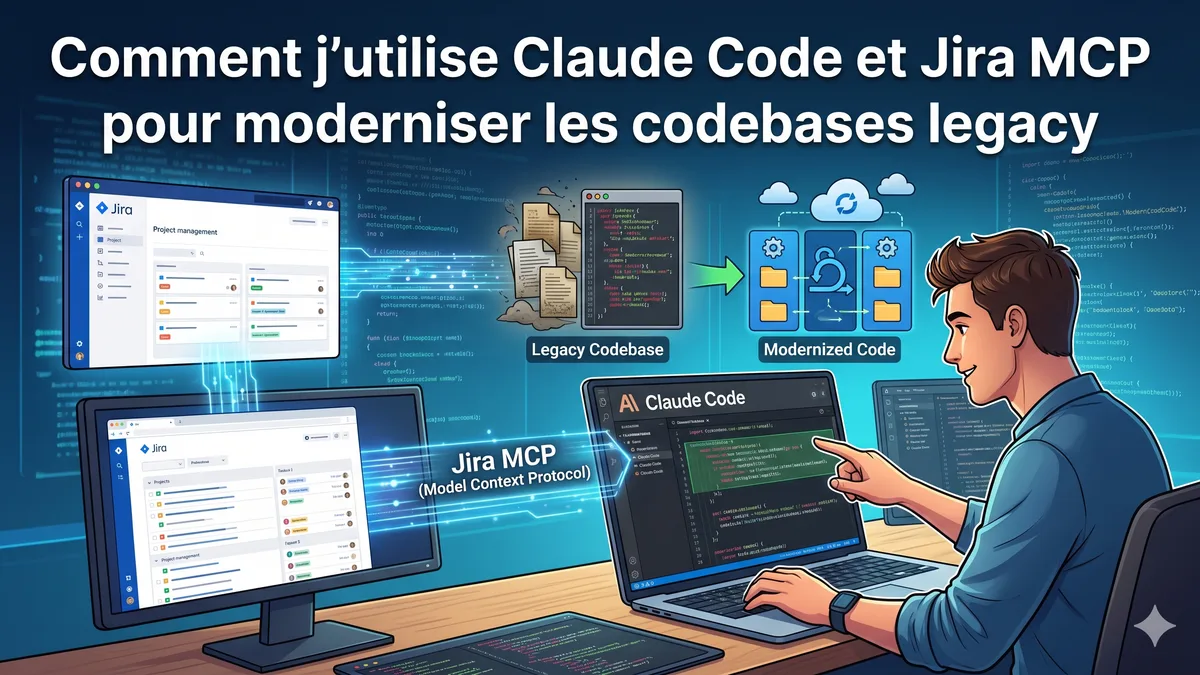
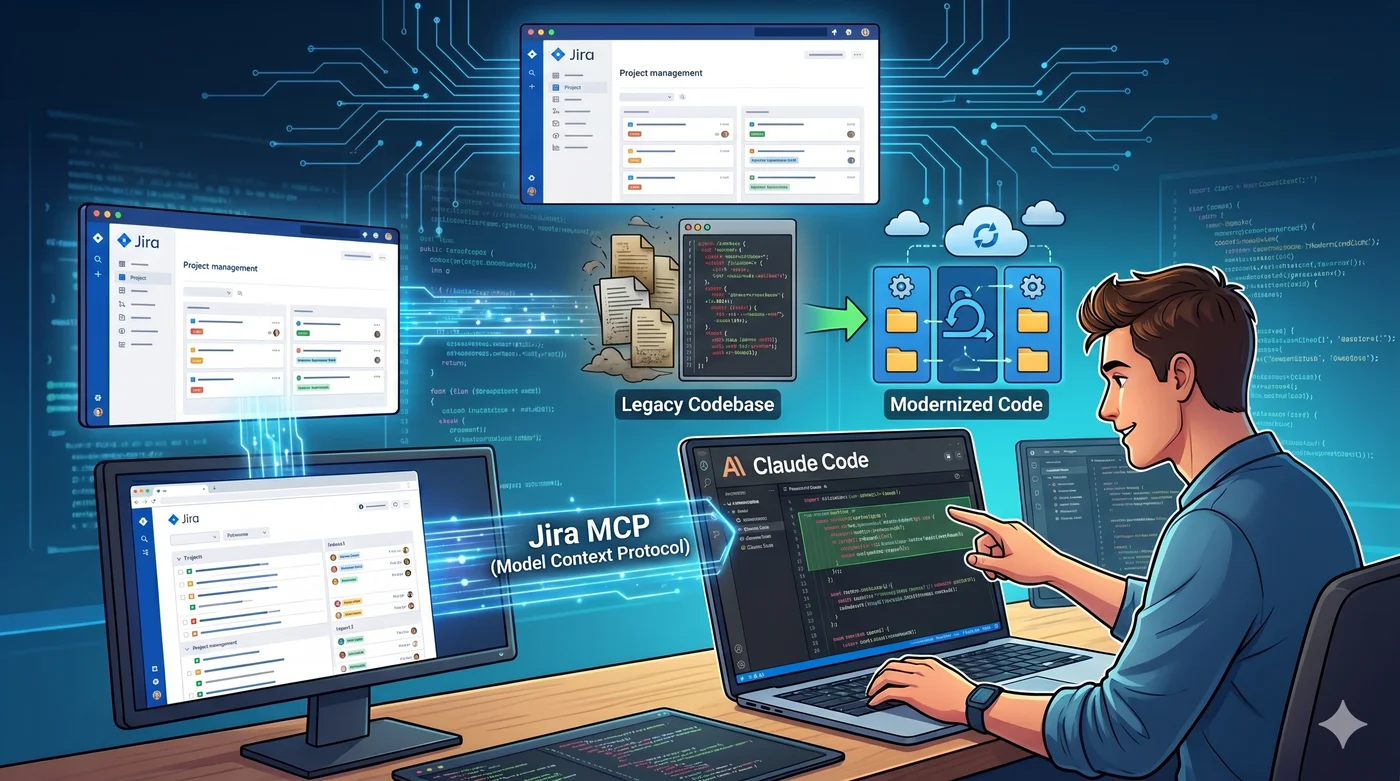
fix: publish Claude Code + Jira MCP blog post and update images
- Remove draft flag from EN and FR versions
- Add relatedPosts links to MCP CLI and spec-driven development articles
- Replace em dashes with standard dashes throughout content
- Remove trailing promotional section about Ippon Technologies
- Update claude-code-jira-mcp-legacy-code.png and .webp images

diff --git a/src/content/blog/fr-claude-code-jira-mcp-legacy-codebase.md b/src/content/blog/fr-claude-code-jira-mcp-legacy-codebase.md
@@ -1,18 +1,18 @@
 ---
 title: "Comment j'utilise Claude Code et Jira MCP pour moderniser les codebases legacy"
-description: "Un retour d'expérience concret sur mon workflow avec Claude Code, CLAUDE.md et le Jira MCP pour naviguer et implémenter des changements dans des codebases Java legacy — du ticket à la pull request."
+description: "Un retour d'expérience concret sur mon workflow avec Claude Code, CLAUDE.md et le Jira MCP pour naviguer et implémenter des changements dans des codebases Java legacy du ticket à la pull request."
 publishDate: 2026-04-28
 tags: ["IA", "Software Engineering"]
 keywords: ["Claude Code", "MCP", "Jira", "Java", "Legacy Code", "IA"]
 img: "/assets/claude-code-jira-mcp-legacy-code.webp"
 img_alt: "Session Claude Code dans le terminal naviguant une codebase legacy avec le Jira MCP"
 lang: "fr"
-draft: true
+relatedPosts: ["model-context-protocol-mcp-cli-rust-ide", "spec-driven-development"]
 ---
 
-Le code legacy, c'est le squelette de chaque entreprise qui a réussi. Il gère la facturation, traite les commandes, et contient des règles métier que personne ne comprend plus vraiment depuis des années. Il ne va nulle part — et c'est précisément pour ça que le moderniser est essentiel.
+Le code legacy, c'est le squelette de chaque entreprise qui a réussi. Il gère la facturation, traite les commandes, et contient des règles métier que personne ne comprend plus vraiment depuis des années. Il ne va nulle part et c'est précisément pour ça que le moderniser est essentiel.
 
-Depuis plusieurs mois, j'utilise **Claude Code** avec le **Jira MCP** et un `CLAUDE.md` soigneusement rédigé pour naviguer et implémenter des changements dans des codebases Java legacy. Cet article est un retour concret sur ce workflow — comment ça se passe, pourquoi ça fonctionne, et où ça échoue encore.
+Depuis plusieurs mois, j'utilise **Claude Code** avec le **Jira MCP** et un `CLAUDE.md` soigneusement rédigé pour naviguer et implémenter des changements dans des codebases Java legacy. Cet article est un retour concret sur ce workflow comment ça se passe, pourquoi ça fonctionne, et où ça échoue encore.
 
 ![Schéma du workflow : le Jira MCP et CLAUDE.md alimentent Claude Code, qui navigue la codebase legacy et produit une pull request](/assets/blog/claude-code-jira-mcp-workflow.svg)
 
@@ -34,11 +34,11 @@ Mon setup comporte trois éléments :
 
 ### 1. Claude Code
 
-[Claude Code](https://claude.ai/code) est l'outil de coding agentique d'Anthropic. Il tourne dans ton terminal, a accès à ton système de fichiers, peut exécuter des commandes, et itère de lui-même. Contrairement à une interface de chat, il ne se contente pas de suggérer du code — il lit des fichiers, fait des modifications, lance des tests, et corrige des erreurs.
+[Claude Code](https://claude.ai/code) est l'outil de coding agentique d'Anthropic. Il tourne dans ton terminal, a accès à ton système de fichiers, peut exécuter des commandes, et itère de lui-même. Contrairement à une interface de chat, il ne se contente pas de suggérer du code il lit des fichiers, fait des modifications, lance des tests, et corrige des erreurs.
 
 Ce qui le rend puissant pour le travail legacy, c'est sa capacité à naviguer une large codebase sans que je lui dicte chaque étape. Je lui donne une tâche et du contexte, il détermine quels fichiers lire.
 
-### 2. CLAUDE.md — Le manuel du projet
+### 2. CLAUDE.md Le manuel du projet
 
 Chaque projet reçoit un `CLAUDE.md` à la racine. Ce fichier, c'est le document d'onboarding de Claude Code. Il indique à l'agent ce qu'il doit savoir avant de toucher quoi que ce soit.
 
@@ -64,12 +64,12 @@ docker compose down           # arrête tous les conteneurs
 ./mvnw test -pl api                # lance les tests unitaires du module api
 
 ### Base de données
-# PostgreSQL — localhost:5432, base: appdb, user: appuser
+# PostgreSQL localhost:5432, base: appdb, user: appuser
 ./scripts/db-reset.sh              # drop + recréation + seed en local
 ./scripts/db-load-dump.sh prod     # charge un dump prod anonymisé (~5min)
 
-# Oracle (ERP legacy) — lecture seule, localhost:1521
-# Ne jamais écrire directement — utiliser le wrapper OracleService dédié
+# Oracle (ERP legacy) lecture seule, localhost:1521
+# Ne jamais écrire directement utiliser le wrapper OracleService dédié
 
 ## Architecture
 - api/          Contrôleurs REST + logique métier
@@ -79,20 +79,20 @@ docker compose down           # arrête tous les conteneurs
 - common/       DTOs, utils, constantes partagées
 
 ## Points sensibles
-- L'ERP Oracle est en lecture seule — ne jamais tenter d'écriture, ça corrompt les données en aval
-- OrderService.createOrder() n'est PAS idempotent — toujours vérifier les doublons avant
+- L'ERP Oracle est en lecture seule ne jamais tenter d'écriture, ça corrompt les données en aval
+- OrderService.createOrder() n'est PAS idempotent toujours vérifier les doublons avant
 - LegacyCodeMapper utilise la réflexion, ajouter des champs casse silencieusement sans tests
-- Ne PAS ajouter @Transactional aux jobs scheduler — ils gardent les connexions ouvertes des minutes
+- Ne PAS ajouter @Transactional aux jobs scheduler ils gardent les connexions ouvertes des minutes
 
 ## Git
 Branches : main (prod), develop (intégration), PROJ-XXXX-description-courte (feature)
-Commits : toujours préfixer avec le ticket — "PROJ-123: ajout calcul TVA commandes EU"
+Commits : toujours préfixer avec le ticket "PROJ-123: ajout calcul TVA commandes EU"
 Push : --force-with-lease uniquement, jamais --force
 ```
 
 Ce fichier fait la différence entre Claude Code qui fait un changement correct et confiant, et un agent qui casse quelque chose par ignorance. Plus tu es précis, meilleurs sont les résultats.
 
-La section **points sensibles** est la plus précieuse. Ce sont les choses qu'un nouveau développeur mettrait des semaines à découvrir. Les écrire une fois protège tout le monde — y compris l'agent — des régressions douloureuses.
+La section **points sensibles** est la plus précieuse. Ce sont les choses qu'un nouveau développeur mettrait des semaines à découvrir. Les écrire une fois protège tout le monde y compris l'agent des régressions douloureuses.
 
 ### 3. Jira MCP
 
@@ -117,15 +117,15 @@ Mais la chose la plus puissante que j'ai construite par-dessus, c'est un **skill
 | `/sonar [app\|connector]`   | Analyse SonarQube locale                                     |
 ```
 
-Le skill `/tester-ticket` est celui qui a changé ma façon de travailler. Je lui donne une référence de ticket, Claude Code lit les critères d'acceptance depuis Jira, identifie les fichiers Playwright correspondants, les lance, et rapporte les résultats. La boucle complète — écrire le code, tester contre le ticket réel — sans quitter le terminal.
+Le skill `/tester-ticket` est celui qui a changé ma façon de travailler. Je lui donne une référence de ticket, Claude Code lit les critères d'acceptance depuis Jira, identifie les fichiers Playwright correspondants, les lance, et rapporte les résultats. La boucle complète écrire le code, tester contre le ticket réel sans quitter le terminal.
 
-**Mise en garde honnête cependant** : il brûle beaucoup de tokens par exécution. Lire le ticket, naviguer les fichiers de test, lancer Playwright, interpréter les résultats — tout ça s'accumule. Sur un ticket complexe avec plusieurs critères d'acceptance, une seule exécution de `/tester-ticket` peut coûter plus que tout le reste de la session réunis. Je l'utilise encore, mais de façon sélective — pas comme étape par défaut à chaque changement.
+**Mise en garde honnête cependant** : il brûle beaucoup de tokens par exécution. Lire le ticket, naviguer les fichiers de test, lancer Playwright, interpréter les résultats tout ça s'accumule. Sur un ticket complexe avec plusieurs critères d'acceptance, une seule exécution de `/tester-ticket` peut coûter plus que tout le reste de la session réunis. Je l'utilise encore, mais de façon sélective pas comme étape par défaut à chaque changement.
 
 ## Le workflow : du ticket à l'implémentation
 
 Voici à quoi ressemble une session type.
 
-### Étape 1 — Démarrer avec une référence de ticket
+### Étape 1 Démarrer avec une référence de ticket
 
 J'ouvre un terminal à la racine du projet et je lance Claude Code avec un prompt simple :
 
@@ -136,7 +136,7 @@ Utilise CLAUDE.md pour le contexte du projet avant de toucher des fichiers.
 
 C'est tout. Claude Code lit d'abord `CLAUDE.md`, puis appelle le Jira MCP pour récupérer le ticket, lit la description et les critères d'acceptance, et commence à explorer la codebase.
 
-### Étape 2 — Claude Code explore la codebase
+### Étape 2 Claude Code explore la codebase
 
 À partir du contenu du ticket, l'agent recherche les fichiers pertinents. Pour un ticket comme *"Corriger le calcul de TVA incorrect pour les commandes B2B en Allemagne"*, il va :
 
@@ -147,15 +147,15 @@ C'est tout. Claude Code lit d'abord `CLAUDE.md`, puis appelle le Jira MCP pour r
 
 C'est la phase d'archéologie. La faire manuellement prend 30 à 60 minutes sur une codebase inconnue. Claude Code le fait en 2-3 minutes.
 
-### Étape 3 — Implémentation avec des guardrails
+### Étape 3 Implémentation avec des guardrails
 
 Claude Code propose des changements basés sur ce qu'il a trouvé. Parce que `CLAUDE.md` établit les contraintes (pas de Lombok, montants en centimes, ne pas toucher les tables `legacy_`), les changements respectent les conventions existantes du projet.
 
 Si l'agent est incertain, il demande. S'il trouve quelque chose de suspect dans le code qui pourrait être lié au ticket, il le signale.
 
-### Étape 4 — Review et itération
+### Étape 4 Review et itération
 
-Je review le diff, lance les tests, et itère. Claude Code ne remplace pas la review — il compresse le temps passé avant la review.
+Je review le diff, lance les tests, et itère. Claude Code ne remplace pas la review il compresse le temps passé avant la review.
 
 ## Ce qui fonctionne vraiment bien
 
@@ -185,7 +185,7 @@ L'honnêteté s'impose ici. Ce workflow n'est pas magique.
 
 ## Le CLAUDE.md est le vrai débloquant
 
-Si je devais nommer la partie la plus impactante de ce setup, c'est le `CLAUDE.md` — pas le modèle, pas les outils.
+Si je devais nommer la partie la plus impactante de ce setup, c'est le `CLAUDE.md` pas le modèle, pas les outils.
 
 Un bon `CLAUDE.md` capture la connaissance institutionnelle qui vit normalement uniquement dans la tête des personnes qui ont le plus travaillé sur le projet. L'écrire te force à articuler des choses qui sont habituellement implicites. Et une fois qu'il existe, n'importe quel développeur (humain ou IA) s'onboard plus vite.
 
@@ -193,12 +193,8 @@ Je le mets à jour chaque fois que je découvre quelque chose qui m'a surpris pe
 
 ## Conclusion
 
-La combinaison Claude Code, Jira MCP et un `CLAUDE.md` bien maintenu n'élimine pas les parties difficiles de la modernisation legacy. Elle compresse le temps passé sur les parties mécaniques — lire du code, tracer des flux, écrire du boilerplate — pour que plus de ton temps aille au jugement, à l'architecture, et à la vraie résolution de problèmes.
+La combinaison Claude Code, Jira MCP et un `CLAUDE.md` bien maintenu n'élimine pas les parties difficiles de la modernisation legacy. Elle compresse le temps passé sur les parties mécaniques lire du code, tracer des flux, écrire du boilerplate pour que plus de ton temps aille au jugement, à l'architecture, et à la vraie résolution de problèmes.
 
 Ce décalage vaut plus que n'importe quelle fonctionnalité individuelle des outils.
 
 Si tu travailles sur une codebase legacy et que tu n'as pas essayé ce workflow, commence par le `CLAUDE.md`. Même sans Claude Code, te forcer à écrire ce que le projet nécessite que les nouveaux venus sachent est les 30 minutes les mieux investies de ta semaine.
-
----
-
-*Je travaille chez [Ippon Technologies](https://ippon.tech) sur des projets de modernisation legacy avec de l'outillage IA. Si ton équipe fait face aux mêmes défis, n'hésite pas à [me contacter](/fr/contact/).*

diff --git a/src/content/blog/claude-code-jira-mcp-legacy-codebase.md b/src/content/blog/claude-code-jira-mcp-legacy-codebase.md
@@ -1,18 +1,18 @@
 ---
 title: "How I Use Claude Code and Jira MCP to Modernize Legacy Codebases"
-description: "A practical walkthrough of my workflow using Claude Code, CLAUDE.md, and the Jira MCP to navigate and implement changes in legacy Java codebases — from ticket to pull request."
+description: "A practical walkthrough of my workflow using Claude Code, CLAUDE.md, and the Jira MCP to navigate and implement changes in legacy Java codebases from ticket to pull request."
 publishDate: 2026-04-28
 tags: ["AI", "Software Engineering"]
 keywords: ["Claude Code", "MCP", "Jira", "Java", "Legacy Code", "AI"]
 img: "/assets/claude-code-jira-mcp-legacy-code.webp"
 img_alt: "Claude Code terminal session navigating a legacy codebase with Jira MCP"
 lang: "en"
-draft: true
+relatedPosts: ["model-context-protocol-mcp-cli-rust-ide", "spec-driven-development"]
 ---
 
-Legacy code is the skeleton of every successful company. It runs billing, processes orders, and holds business rules that nobody has fully understood in years. It's not going anywhere — and that's exactly why modernizing it matters.
+Legacy code is the skeleton of every successful company. It runs billing, processes orders, and holds business rules that nobody has fully understood in years. It's not going anywhere, and that's exactly why modernizing it matters.
 
-For the past several months, I've been using **Claude Code** alongside the **Jira MCP** and a carefully crafted `CLAUDE.md` to navigate and implement changes on legacy Java codebases. This article is a practical breakdown of that workflow — what it looks like, why it works, and where it still fails.
+For the past several months, I've been using **Claude Code** alongside the **Jira MCP** and a carefully crafted `CLAUDE.md` to navigate and implement changes on legacy Java codebases. This article is a practical breakdown of that workflow: what it looks like, why it works, and where it still fails.
 
 ![Workflow diagram: Jira MCP and CLAUDE.md feed into Claude Code, which navigates the legacy codebase and outputs a pull request](/assets/blog/claude-code-jira-mcp-workflow.svg)
 
@@ -34,11 +34,11 @@ My setup has three components:
 
 ### 1. Claude Code
 
-[Claude Code](https://claude.ai/code) is Anthropic's agentic coding tool. It runs in your terminal, has access to your filesystem, can execute commands, and iterates on its own. Unlike a chat interface, it doesn't just suggest code — it reads files, makes changes, runs tests, and fixes errors.
+[Claude Code](https://claude.ai/code) is Anthropic's agentic coding tool. It runs in your terminal, has access to your filesystem, can execute commands, and iterates on its own. Unlike a chat interface, it doesn't just suggest code it reads files, makes changes, runs tests, and fixes errors.
 
 What makes it powerful for legacy work is that it can navigate a large codebase without me directing every step. I give it a task and context, and it figures out which files to read.
 
-### 2. CLAUDE.md — The Project Handbook
+### 2. CLAUDE.md The Project Handbook
 
 Every project gets a `CLAUDE.md` at the root. This file is Claude Code's onboarding document. It tells the agent what it needs to know before touching anything.
 
@@ -64,12 +64,12 @@ docker compose down           # stop all containers
 ./mvnw test -pl api                # run unit tests for api module
 
 ### Database
-# PostgreSQL — localhost:5432, db: appdb, user: appuser
+# PostgreSQL localhost:5432, db: appdb, user: appuser
 ./scripts/db-reset.sh              # drop + recreate + seed local DB
 ./scripts/db-load-dump.sh prod     # load anonymized prod dump (slow, ~5min)
 
-# Oracle (legacy ERP) — read-only, localhost:1521
-# Never write directly — use the dedicated OracleService wrapper
+# Oracle (legacy ERP) read-only, localhost:1521
+# Never write directly use the dedicated OracleService wrapper
 
 ## Architecture
 - api/          REST controllers + business logic
@@ -79,20 +79,20 @@ docker compose down           # stop all containers
 - common/       DTOs, utils, shared constants
 
 ## Known landmines
-- Oracle ERP is read-only — never attempt a write, it will corrupt downstream data
-- OrderService.createOrder() is NOT idempotent — always check for duplicates first
+- Oracle ERP is read-only never attempt a write, it will corrupt downstream data
+- OrderService.createOrder() is NOT idempotent always check for duplicates first
 - LegacyCodeMapper uses reflection, adding new fields breaks silently without tests
-- Do NOT add @Transactional to scheduler jobs — they hold connections for minutes
+- Do NOT add @Transactional to scheduler jobs they hold connections for minutes
 
 ## Git
 Branches: main (prod), develop (integration), PROJ-XXXX-short-description (feature)
-Commits: always prefix with ticket — "PROJ-123: add VAT calculation for EU orders"
+Commits: always prefix with ticket "PROJ-123: add VAT calculation for EU orders"
 Push: --force-with-lease only, never --force
 ```
 
 This file is the difference between Claude Code making a confident, correct change and blindly breaking something. The more specific you are, the better the results.
 
-The **Known landmines** section is the most valuable part. These are the things that would take a new developer weeks to discover. Writing them down once saves everyone — including the agent — from painful regressions.
+The **Known landmines** section is the most valuable part. These are the things that would take a new developer weeks to discover. Writing them down once saves everyone including the agent from painful regressions.
 
 ### 3. Jira MCP
 
@@ -117,15 +117,15 @@ But the most powerful thing I've built on top of this is a **custom skill in `CL
 | `/sonar [app\|connector]`  | Run local SonarQube analysis                             |
 ```
 
-The `/test-ticket` skill is the one that changed how I work. I give it a ticket reference, Claude Code reads the acceptance criteria from Jira, maps them to the right Playwright test files, runs them, and reports back. The full feedback loop — write code, test against the actual ticket — without leaving the terminal.
+The `/test-ticket` skill is the one that changed how I work. I give it a ticket reference, Claude Code reads the acceptance criteria from Jira, maps them to the right Playwright test files, runs them, and reports back. The full feedback loop write code, test against the actual ticket without leaving the terminal.
 
-**Honest caveat though**: it burns a significant number of tokens per run. Reading the ticket, navigating the test files, running Playwright, interpreting results — it all adds up. On a complex ticket with multiple acceptance criteria, a single `/test-ticket` run can cost more than the rest of the session combined. I still use it, but selectively — not as a default step on every change.
+**Honest caveat though**: it burns a significant number of tokens per run. Reading the ticket, navigating the test files, running Playwright, interpreting results it all adds up. On a complex ticket with multiple acceptance criteria, a single `/test-ticket` run can cost more than the rest of the session combined. I still use it, but selectively not as a default step on every change.
 
 ## The Workflow: From Ticket to Implementation
 
 Here's how a typical session looks.
 
-### Step 1 — Kick off with a ticket reference
+### Step 1 Kick off with a ticket reference
 
 I open a terminal in the project root and start Claude Code with a simple prompt:
 
@@ -136,7 +136,7 @@ Use CLAUDE.md for project context before touching any files.
 
 That's it. Claude Code reads `CLAUDE.md` first, then calls the Jira MCP to fetch the ticket, reads the description and acceptance criteria, and starts exploring the codebase.
 
-### Step 2 — Claude Code explores the codebase
+### Step 2 Claude Code explores the codebase
 
 Based on the ticket content, the agent searches for relevant files. For a ticket like *"Fix incorrect VAT calculation for B2B orders in Germany"*, it will:
 
@@ -147,15 +147,15 @@ Based on the ticket content, the agent searches for relevant files. For a ticket
 
 This is the archaeology phase. Doing it manually takes 30-60 minutes on an unfamiliar codebase. Claude Code does it in 2-3 minutes.
 
-### Step 3 — Implementation with guardrails
+### Step 3 Implementation with guardrails
 
 Claude Code proposes changes based on what it found. Because `CLAUDE.md` establishes the constraints (no Lombok, amounts in cents, don't touch `legacy_` tables), the changes respect the project's existing conventions.
 
 If the agent is uncertain, it asks. If it finds something suspicious in the code that might be related to the ticket, it surfaces it.
 
-### Step 4 — Review and iterate
+### Step 4 Review and iterate
 
-I review the diff, run the tests, and iterate. Claude Code doesn't replace the review — it compresses the time spent before the review.
+I review the diff, run the tests, and iterate. Claude Code doesn't replace the review it compresses the time spent before the review.
 
 ## What Actually Works Well
 
@@ -185,7 +185,7 @@ Honesty matters here. This workflow isn't magic.
 
 ## The CLAUDE.md Is the Real Unlock
 
-If I had to name the single most impactful part of this setup, it's the `CLAUDE.md` — not the model, not the tools.
+If I had to name the single most impactful part of this setup, it's the `CLAUDE.md` not the model, not the tools.
 
 A good `CLAUDE.md` captures institutional knowledge that would otherwise live only in the heads of the people who've worked on the project longest. Writing it forces you to articulate things that are usually implicit. And once it exists, any developer (human or AI) onboards faster.
 
@@ -193,12 +193,8 @@ I update it every time I discover something that surprised me during a session. 
 
 ## Conclusion
 
-The combination of Claude Code, Jira MCP, and a well-maintained `CLAUDE.md` doesn't eliminate the hard parts of legacy modernization. It compresses the time spent on the mechanical parts — reading code, tracing flows, writing boilerplate — so that more of your time goes to judgment, architecture, and actual problem-solving.
+The combination of Claude Code, Jira MCP, and a well-maintained `CLAUDE.md` doesn't eliminate the hard parts of legacy modernization. It compresses the time spent on the mechanical parts reading code, tracing flows, writing boilerplate so that more of your time goes to judgment, architecture, and actual problem-solving.
 
 That shift is worth more than any individual feature the tools provide.
 
 If you're working on a legacy codebase and haven't tried this workflow, start with the `CLAUDE.md`. Even without Claude Code, forcing yourself to write down what the project needs newcomers to know is the most valuable 30 minutes you'll spend this week.
-
----
-
-*I work at [Ippon Technologies](https://ippon.tech) on legacy modernization projects using AI tooling. If your team is dealing with the same challenges, feel free to [reach out](/contact/).*
